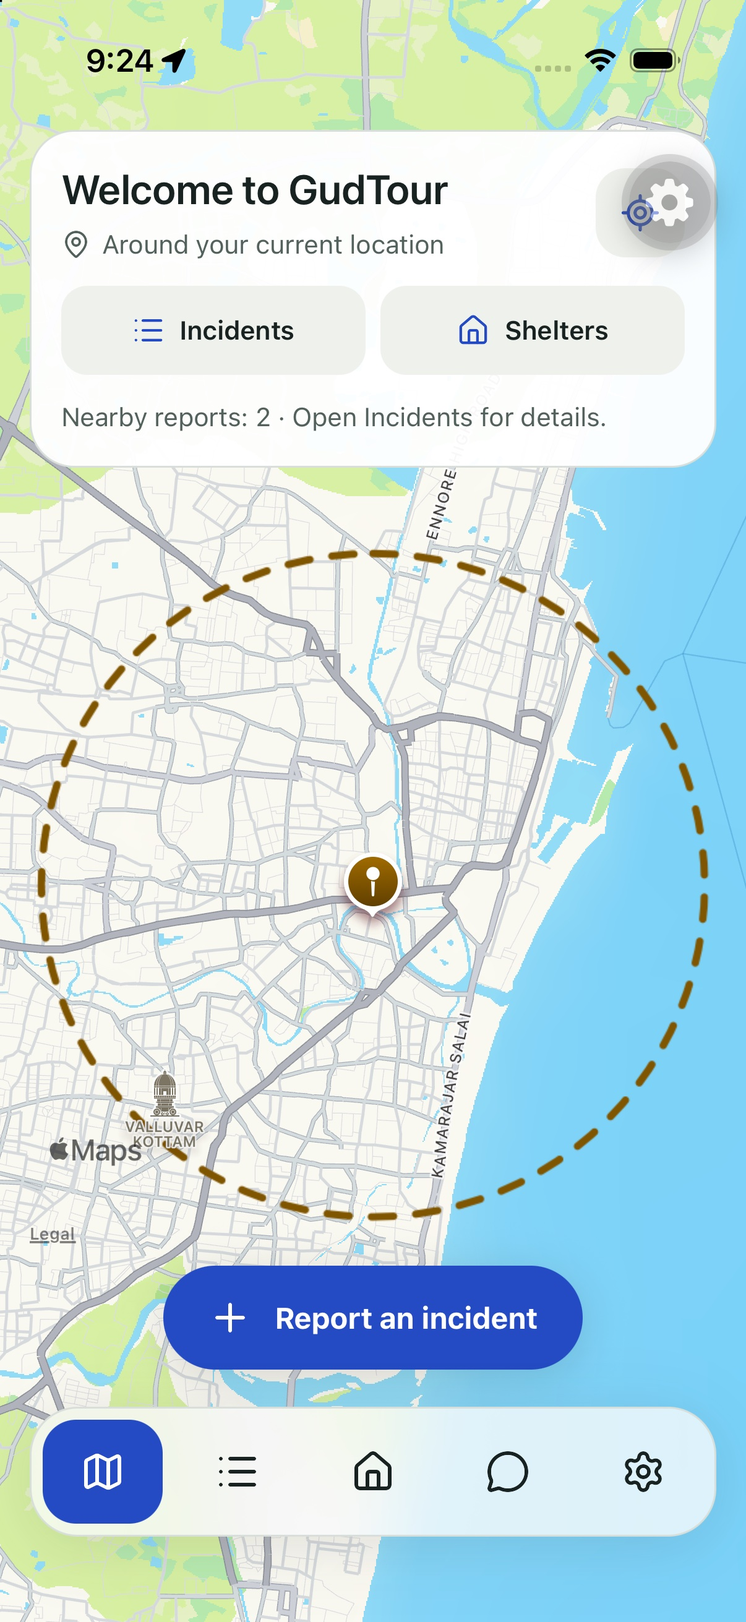
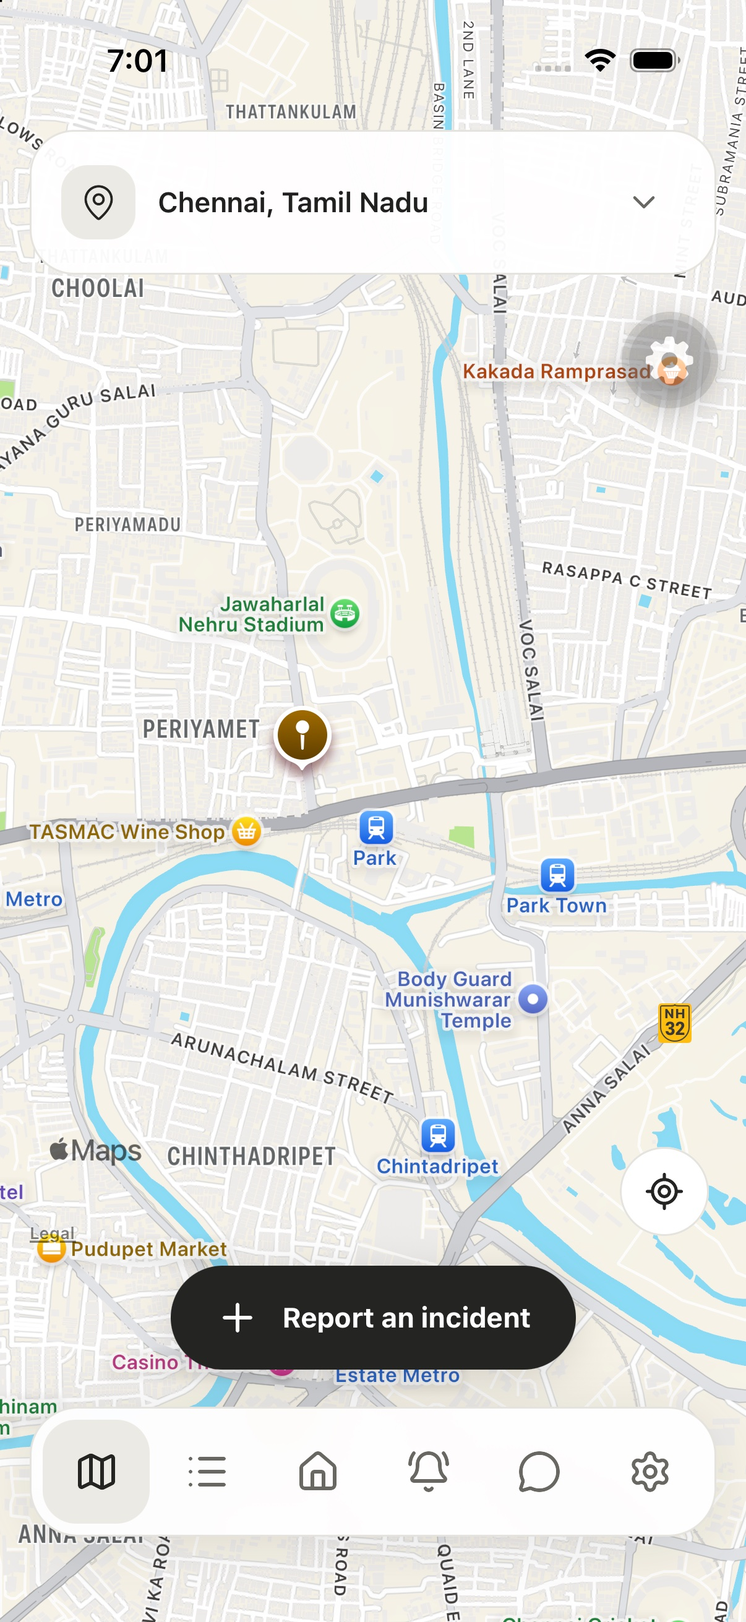
Refresh landing page with updated GudTour branding

diff --git a/web/styles.css b/web/styles.css
@@ -1,195 +1,12 @@
-/* App palette: src/theme/tokens.ts. Web layout is intentionally independent of Expo. */
-:root {
-  color-scheme: light;
-  --background: #F6F7F4;
-  --surface: #FFFFFF;
-  --text: #182321;
-  --secondary: #53615C;
-  --border: #D8DFDA;
-  --accent: #244BC4;
-  --selection: #E8EDFC;
-  --muted: #EEF1EC;
-  --radius: 22px;
-  font-family: -apple-system, BlinkMacSystemFont, "Segoe UI", Helvetica, Arial, sans-serif;
-  font-synthesis: none;
-  -webkit-font-smoothing: antialiased;
-}
-* { box-sizing: border-box; }
-html { scroll-padding-top: 24px; }
-body { margin: 0; background: var(--background); color: var(--text); }
-a { color: inherit; text-decoration: none; touch-action: manipulation; -webkit-tap-highlight-color: #244bc420; }
-svg { display: block; }
-::selection { background: var(--selection); color: var(--accent); }
-:focus-visible { outline: 3px solid var(--accent); outline-offset: 6px; border-radius: 6px; }
-.skip-link { position: absolute; top: 12px; left: 12px; z-index: 5; padding: 14px; background: var(--surface); transform: translateY(-200%); }
-.skip-link:focus { transform: translateY(0); }
-.icon-library { position: absolute; width: 0; height: 0; overflow: hidden; }
-.line-icon { width: 24px; height: 24px; fill: none; stroke: currentColor; stroke-width: 1.7; stroke-linecap: round; stroke-linejoin: round; flex-shrink: 0; }
-.page-shell { max-width: 1504px; margin: 0 auto; padding: 0 max(48px, env(safe-area-inset-right)) 0 max(48px, env(safe-area-inset-left)); }
-.header { height: 112px; display: flex; align-items: center; justify-content: space-between; gap: 24px; }
-.brand { display: inline-flex; align-items: center; gap: 10px; font-size: 28px; font-weight: 650; letter-spacing: -1.3px; }
-.brand-mark { display: grid; place-items: center; height: 38px; width: 38px; border-radius: 12px; background: var(--accent); color: white; }
-.brand-mark svg { width: 26px; height: 26px; }
-.brand-period { margin-left: -9px; color: var(--accent); }
-.header-right { display: flex; align-items: center; gap: 32px; }
-.edition { color: var(--secondary); font-size: 13px; }
-.header-cta { display: flex; align-items: center; gap: 22px; padding: 14px 20px; border: 1px solid var(--border); border-radius: 100px; font-size: 13px; font-weight: 600; transition: background 150ms, border-color 150ms; }
-.header-cta:hover { background: var(--surface); border-color: var(--secondary); }
-.header-cta .line-icon { width: 17px; height: 17px; }
-.hero { display: grid; grid-template-columns: 1.06fr 1fr; gap: 28px; min-height: 770px; align-items: center; }
-.hero-copy { padding: 36px 0 78px; position: relative; z-index: 1; }
-.eyebrow { font-size: 13px; color: var(--secondary); display: flex; align-items: center; gap: 10px; margin: 0 0 32px; }
-.tiny-compass { width: 25px; height: 25px; display: grid; place-items: center; border: 1px solid var(--border); border-radius: 50%; color: var(--accent); font-size: 17px; }
-h1 { font-size: clamp(58px, 5.7vw, 84px); line-height: 1.07; letter-spacing: -.066em; font-weight: 550; margin: 0 0 34px; text-wrap: balance; }
-.word-home { color: var(--accent); display: inline-block; position: relative; white-space: nowrap; }
-.word-home svg { position: absolute; bottom: -10px; left: 0; width: 100%; height: 15px; fill: none; stroke: var(--accent); stroke-width: 2; opacity: .5; }
-.intro { color: var(--secondary); font-size: 17px; line-height: 1.8; max-width: 465px; margin: 0 0 34px; text-wrap: pretty; }
-.intro strong { color: var(--text); font-weight: 600; }
-.download-block { scroll-margin-top: 28px; }
-.download-actions { display: flex; flex-wrap: wrap; gap: 12px; }
-.download { display: flex; align-items: center; gap: 12px; padding: 15px 17px; border: 1px solid transparent; border-radius: 17px; min-height: 72px; transition: transform 150ms, background 150ms, border-color 150ms; }
-.download-primary { background: var(--text); color: var(--surface); }
-.download-secondary { background: var(--surface); border-color: var(--border); }
-.download[aria-disabled="true"] { cursor: default; }
-.download[href]:hover { transform: translateY(-2px); }
-.download-primary[href]:hover { background: var(--accent); }
-.download-secondary[href]:hover { border-color: var(--accent); background: var(--selection); }
-.download[href]:active { transform: translateY(0); }
-.download-overline { display: block; font-size: 10px; letter-spacing: .02em; line-height: 1.7; }
-.download-title { display: block; font-size: 13px; font-weight: 600; line-height: 1.6; white-space: nowrap; }
-.platform-icon { width: 25px; height: 25px; flex-shrink: 0; fill: none; stroke: currentColor; stroke-width: 1.5; stroke-linecap: round; stroke-linejoin: round; }
-.download-arrow { width: 17px; height: 17px; margin-left: 2px; }
-.download[aria-disabled="true"] .download-arrow { opacity: .35; }
-.release-note { margin: 14px 0 0; color: var(--secondary); font-size: 12px; line-height: 1.7; max-width: 440px; }
-.language-note { display: flex; gap: 16px; align-items: center; margin-top: 40px; }
-.language-dots { display: flex; padding-left: 0; }
-.language-dots span { display: grid; place-items: center; height: 33px; width: 33px; border-radius: 50%; background: var(--surface); border: 2px solid var(--background); font-size: 12px; color: var(--secondary); }
-.language-dots span + span { margin-left: -9px; }
-.language-dots span:last-child { background: var(--selection); color: var(--accent); }
-.language-note p { margin: 0; font-size: 12px; line-height: 1.8; color: var(--secondary); }
-.language-note strong { color: var(--text); font-weight: 600; }
-.language-note p > span { font-size: 10px; }
-.product-visual { position: relative; isolation: isolate; min-width: 0; height: 750px; display: flex; align-items: center; justify-content: center; margin: 0; }
-.orbit { position: absolute; border-radius: 50%; z-index: -1; pointer-events: none; }
-.orbit-outer { width: 590px; height: 590px; max-width: 108%; border: 1px solid var(--border); }
-.orbit-inner { width: 455px; height: 455px; max-width: 85%; border: 1px dashed #bfcbbf; background: #eef1ec80; }
-.orbit-pin { position: absolute; z-index: -1; display: grid; place-items: center; width: 42px; height: 42px; background: var(--surface); color: var(--accent); border: 1px solid var(--border); border-radius: 50%; }
-.orbit-pin-one { top: 220px; left: 4%; }
-.orbit-pin-two { bottom: 168px; right: 3%; }
-.orbit-pin .line-icon { width: 19px; height: 19px; }
-.visual-label { position: absolute; top: 11px; left: 50%; transform: translateX(-50%); white-space: nowrap; color: var(--secondary); font-size: 11px; display: flex; align-items: center; gap: 8px; }
-.label-dot { height: 5px; width: 5px; background: var(--accent); border-radius: 50%; }
-.phone { width: 288px; position: relative; padding: 6px; background: #34403d; border: 1px solid #53615c; border-radius: 46px; transform: rotate(-5deg); box-shadow: 0 0 0 2px #bcc3be, 0 2px 0 3px white, 12px 26px 38px -18px #18232142, 0 60px 60px -42px #18232140; }
-.phone-screen { border-radius: 39px; overflow: hidden; position: relative; background: var(--muted); }
-.phone-screen img { display: block; width: 100%; height: auto; }
-.dynamic-island { background: #182321; position: absolute; top: 9px; left: 50%; transform: translateX(-50%); width: 78px; height: 22px; border-radius: 18px; }
-.phone-button { position: absolute; width: 3px; background: #6b7570; left: -5px; border-radius: 2px; }
-.phone-button-one { top: 100px; height: 24px; }
-.phone-button-two { top: 137px; height: 44px; }
-.floating-note { position: absolute; left: 0; bottom: 155px; display: flex; align-items: center; gap: 13px; padding: 17px 18px; border: 1px solid #ffffff; background: #ffffffed; border-radius: 19px; box-shadow: 0 12px 30px -15px #18232130; font-size: 13px; line-height: 1.7; transform: rotate(2deg); }
-.note-icon { width: 39px; height: 39px; display: grid; place-items: center; border-radius: 12px; background: var(--selection); color: var(--accent); }
-.note-icon svg { width: 19px; height: 19px; }
-.floating-note strong { font-weight: 600; }
-.note-arrow { margin-left: 8px; color: var(--secondary); }
-figcaption { position: absolute; bottom: 36px; left: 0; right: 0; text-align: center; font-size: 10px; color: var(--secondary); }
-figcaption span { margin: 0 5px; }
-.essentials { display: grid; grid-template-columns: repeat(3, 1fr); border-top: 1px solid var(--border); border-bottom: 1px solid var(--border); padding: 32px 0; gap: 34px; }
-.essentials article { display: flex; align-items: flex-start; gap: 16px; min-width: 0; }
-.essential-icon { color: var(--accent); padding-top: 3px; }
-.essentials h2 { font-weight: 600; font-size: 14px; letter-spacing: -.02em; margin: 0 0 9px; text-wrap: balance; }
-.essentials p { color: var(--secondary); font-size: 12px; line-height: 1.7; margin: 0; max-width: 240px; text-wrap: pretty; }
-.essential-number { font-size: 10px; color: var(--secondary); margin-left: auto; font-variant-numeric: tabular-nums; }
-.footer { display: flex; justify-content: space-between; align-items: center; padding: 30px 0 max(32px, env(safe-area-inset-bottom)); gap: 24px; font-size: 11px; color: var(--secondary); }
-.footer p { margin: 0; line-height: 1.8; }
-.footer p:first-child { white-space: nowrap; }
-.footer p:first-child > span:first-child { color: var(--text); font-weight: 650; }
-.footer-slash { margin: 0 10px; color: #73817a; }
-.footer-fine { font-size: 10px; }
-.footer-location { white-space: nowrap; }
-.footer-location > span { margin-right: 5px; color: var(--accent); }
-@media (min-width: 1550px) { .hero { min-height: 830px; } }
-@media (max-width: 1100px) {
-  .page-shell { padding: 0 32px; }
-  .hero { gap: 10px; min-height: 710px; }
-  h1 { font-size: 60px; }
-  .hero-copy { padding-bottom: 40px; }
-  .product-visual { height: 700px; }
-  .phone { width: 258px; }
-  .floating-note { left: -12px; bottom: 130px; padding: 12px; font-size: 11px; }
-  .orbit-outer { width: 440px; height: 440px; }
-  .orbit-inner { width: 340px; height: 340px; }
-  .essentials { gap: 20px; }
-  .footer { flex-wrap: wrap; }
-  .footer-fine { order: 3; flex-basis: 100%; }
-}
-@media (max-width: 820px) {
-  .header { height: 90px; }
-  .edition { display: none; }
-  .hero { grid-template-columns: 1fr; gap: 0; }
-  .hero-copy { text-align: center; padding: 40px 0 12px; }
-  .eyebrow, .download-actions, .language-note { justify-content: center; }
-  .eyebrow { margin-bottom: 28px; }
-  h1 { font-size: clamp(48px, 8.7vw, 70px); }
-  .intro { margin: 0 auto 28px; max-width: 460px; }
-  .release-note { margin-left: auto; margin-right: auto; }
-  .language-note { margin-top: 25px; text-align: left; }
-  .product-visual { height: 750px; width: 100%; max-width: 550px; margin: 12px auto 0; }
-  .phone { width: 288px; }
-  .visual-label { top: 25px; }
-  .floating-note { left: 10px; bottom: 158px; font-size: 13px; padding: 17px; }
-  .orbit-outer { width: 500px; height: 500px; }
-  .orbit-inner { width: 400px; height: 400px; }
-  .essentials { grid-template-columns: 1fr; gap: 28px; padding: 28px 0; }
-  .essentials p { max-width: none; }
-  .essentials h2 { font-size: 15px; }
-  .essentials article { gap: 20px; }
-}
-@media (max-width: 480px) {
-  .page-shell { padding: 0 max(22px, env(safe-area-inset-left)) 0 max(22px, env(safe-area-inset-right)); }
-  .header { height: 82px; }
-  .brand { font-size: 25px; }
-  .brand-mark { width: 32px; height: 32px; border-radius: 10px; }
-  .header-cta { padding: 11px 14px; gap: 12px; font-size: 12px; }
-  .hero-copy { padding-top: 30px; }
-  .eyebrow { font-size: 10px; gap: 8px; }
-  .tiny-compass { width: 21px; height: 21px; font-size: 14px; }
-  h1 { font-size: clamp(38px, 10.2vw, 48px); margin-bottom: 30px; }
-  .intro { font-size: 15px; line-height: 1.8; }
-  .download-actions { gap: 10px; }
-  .download { flex: 1 1 260px; max-width: 330px; text-align: left; padding: 14px 20px; }
-  .download-title { font-size: 14px; }
-  .download-overline { font-size: 11px; }
-  .download-arrow { margin-left: auto; }
-  .language-note { gap: 10px; }
-  .language-note p > span { font-size: 9px; }
-  .language-dots span { width: 28px; height: 28px; }
-  .product-visual { height: 700px; margin-top: 5px; }
-  .phone { width: 265px; border-radius: 43px; }
-  .phone-screen { border-radius: 36px; }
-  .visual-label { top: 24px; font-size: 10px; }
-  .orbit-outer { width: 330px; height: 330px; }
-  .orbit-inner { width: 265px; height: 265px; }
-  .orbit-pin-one { left: 0; top: 220px; }
-  .orbit-pin-two { right: 0; bottom: 150px; }
-  .floating-note { left: -4px; bottom: 125px; font-size: 11px; padding: 12px; gap: 9px; }
-  .note-icon { width: 31px; height: 31px; }
-  figcaption { font-size: 9px; bottom: 24px; }
-  .footer { padding-top: 24px; font-size: 10px; gap: 15px; }
-  .footer-slash { margin: 0 5px; }
-}
-@media (max-width: 350px) {
-  .page-shell { padding-left: 18px; padding-right: 18px; }
-  h1 { font-size: 36px; }
-  .hero-copy .eyebrow { font-size: 9px; }
-  .language-dots { display: none; }
-  .phone { width: 240px; }
-  .product-visual { height: 650px; }
-  .visual-label { font-size: 9px; }
-  .footer-location { display: none; }
-}
-@media (prefers-reduced-motion: reduce) {
-  *, *::before, *::after { transition: none !important; scroll-behavior: auto !important; }
-}
-@media (prefers-contrast: more) {
-  .orbit-inner, .orbit-outer, .header-cta, .download-secondary { border-color: var(--secondary); }
-}
+/* Matches GudTour's warm neutrals, black controls and restrained pastel surfaces. */
+:root{color-scheme:light;--background:#F7F6F3;--surface:#fff;--text:#20201E;--secondary:#686761;--border:#E5E3DD;--accent:#242421;--selection:#ECEAE4;--muted:#F0EEE8;--sky:#E1EFF8;--peach:#FBE4D6;--sand:#F4EACB;font-family:-apple-system,BlinkMacSystemFont,"Segoe UI",Helvetica,Arial,sans-serif;font-synthesis:none;-webkit-font-smoothing:antialiased}
+*{box-sizing:border-box}body{margin:0;background:var(--background);color:var(--text)}a{color:inherit;text-decoration:none;touch-action:manipulation;-webkit-tap-highlight-color:#20201e15}svg{display:block}::selection{background:var(--sand)}:focus-visible{outline:3px solid var(--text);outline-offset:5px;border-radius:6px}.skip-link{position:absolute;top:12px;left:12px;z-index:5;padding:14px;background:white;transform:translateY(-200%)}.skip-link:focus{transform:none}.icon-library{position:absolute;width:0;height:0;overflow:hidden}.line-icon{width:24px;height:24px;fill:none;stroke:currentColor;stroke-width:1.7;stroke-linecap:round;stroke-linejoin:round;flex-shrink:0}
+.page-shell{max-width:1320px;margin:auto;padding:0 max(40px,env(safe-area-inset-left)) 0 max(40px,env(safe-area-inset-right))}.header{height:108px;display:flex;align-items:center;justify-content:space-between;gap:20px;border-bottom:1px solid var(--border)}.brand{display:inline-flex;align-items:center;gap:8px;font-size:27px;font-weight:750;letter-spacing:-1.2px}.brand-mark{display:block;width:44px;height:44px}.brand-mark img{display:block;width:100%;height:100%;border-radius:12px}.brand-period{display:none}.header-right{display:flex;align-items:center;gap:28px}.edition{font-size:12px;color:var(--secondary)}.header-cta{display:flex;align-items:center;gap:22px;background:var(--text);color:white;padding:14px 20px;border-radius:14px;font-size:13px;font-weight:600;min-height:48px}.header-cta:hover{background:#44443e}.header-cta svg{width:18px;height:18px}
+.hero{display:grid;grid-template-columns:1fr 1fr;align-items:center;gap:48px;padding:42px 0 48px}.hero-copy{padding:24px 0}.eyebrow{display:flex;align-items:center;gap:10px;font-size:10px;font-weight:650;letter-spacing:1.5px;margin:0 0 28px;color:var(--secondary)}.tiny-compass{display:grid;place-items:center;background:var(--sand);width:30px;height:30px;border-radius:10px;font-size:19px;color:var(--text)}h1{font-size:clamp(48px,5.3vw,74px);line-height:1.04;letter-spacing:-.065em;font-weight:750;margin:0 0 26px;text-wrap:balance}.word-home{color:var(--secondary)}.intro{font-size:16px;line-height:1.75;color:var(--secondary);max-width:420px;margin:0 0 30px;text-wrap:pretty}.intro strong{font-weight:600;color:var(--text)}.download-block{scroll-margin-top:24px}.download-actions{display:flex;flex-wrap:wrap;gap:10px}.download{display:flex;align-items:center;gap:10px;min-height:70px;padding:13px 16px;border:1px solid var(--border);border-radius:16px;transition:transform 150ms}.download-primary{background:var(--text);color:white;border-color:var(--text)}.download-secondary{background:white}.download[href]:hover{transform:translateY(-2px)}.download[href]:active{transform:none}.download[aria-disabled=true]{cursor:default}.download-overline{display:block;font-size:10px;line-height:1.7}.download-title{display:block;font-size:13px;font-weight:650;line-height:1.6}.platform-icon{width:24px;height:24px;fill:none;stroke:currentColor;stroke-width:1.5;stroke-linecap:round;stroke-linejoin:round;flex-shrink:0}.download-arrow{width:16px;height:16px}.download[aria-disabled=true] .download-arrow{display:none}.release-note{font-size:11px;line-height:1.7;color:var(--secondary);max-width:400px;margin:12px 0 0}.language-note{display:flex;gap:12px;align-items:center;margin-top:30px}.language-dots{display:flex;flex-shrink:0}.language-dots span{display:grid;place-items:center;width:34px;height:34px;border:2px solid var(--background);border-radius:50%;background:var(--sky);font-size:13px}.language-dots span+span{margin-left:-8px;background:var(--peach)}.language-dots span:last-child{background:var(--sand)}.language-note p{font-size:12px;line-height:1.8;margin:0;color:var(--secondary)}.language-note strong{color:var(--text)}.language-note p>span{font-size:10px}
+.product-visual{position:relative;isolation:isolate;display:flex;align-items:center;justify-content:center;min-width:0;height:660px;margin:0;background:var(--sky);border-radius:36px;overflow:hidden}.orbit{position:absolute;z-index:-1;border-radius:50%;pointer-events:none}.orbit-outer{width:520px;height:520px;border:1px solid #bccfda}.orbit-inner{width:390px;height:390px;border:1px solid #bccfda}.orbit-pin{position:absolute;display:grid;place-items:center;width:46px;height:46px;border-radius:16px;background:var(--sand);z-index:-1;transform:rotate(-12deg)}.orbit-pin-one{left:24px;top:160px}.orbit-pin-two{right:24px;bottom:160px;background:var(--peach);transform:rotate(12deg)}.visual-label{position:absolute;top:26px;font-size:9px;letter-spacing:1.1px;display:flex;align-items:center;gap:7px;color:#4d626d}.label-dot{width:5px;height:5px;background:currentColor;border-radius:50%}.phone{width:248px;padding:5px;background:#242421;border:1px solid #686761;border-radius:39px;transform:rotate(-4deg);box-shadow:0 2px 0 2px #fff,12px 22px 32px -16px #20201e55}.phone-screen{border-radius:33px;overflow:hidden;position:relative;background:var(--muted)}.phone-screen img{display:block;width:100%;height:auto}.dynamic-island{position:absolute;top:8px;left:50%;transform:translateX(-50%);width:68px;height:19px;background:#181818;border-radius:18px}.phone-button{position:absolute;left:-4px;width:2px;background:#686761;border-radius:2px}.phone-button-one{top:90px;height:22px}.phone-button-two{top:125px;height:38px}.floating-note{position:absolute;bottom:88px;left:22px;display:flex;align-items:center;gap:12px;padding:14px 18px;background:var(--surface);border-radius:18px;box-shadow:0 6px 20px #20201e0d;font-size:12px;line-height:1.6;transform:rotate(3deg)}.note-icon{display:grid;place-items:center;width:36px;height:36px;border-radius:12px;background:var(--peach)}.note-icon svg{width:20px;height:20px}.note-arrow{margin-left:12px}figcaption{position:absolute;bottom:22px;left:12px;right:12px;text-align:center;font-size:10px;color:#4d626d}figcaption span{margin:0 4px}
+.essentials{display:grid;grid-template-columns:repeat(3,1fr);gap:14px;padding:0 0 42px}.essentials article{position:relative;display:flex;flex-direction:column;align-items:flex-start;gap:22px;background:var(--surface);padding:26px;border-radius:24px;min-width:0}.essential-icon{display:grid;place-items:center;width:46px;height:46px;border-radius:15px;background:var(--sky)}.essentials article:nth-child(2) .essential-icon{background:var(--peach)}.essentials article:nth-child(3) .essential-icon{background:var(--sand)}.essentials h2{font-size:18px;letter-spacing:-.5px;margin:0 0 9px;font-weight:650;text-wrap:balance}.essentials p{font-size:13px;line-height:1.7;margin:0;max-width:280px;color:var(--secondary)}.essential-number{position:absolute;top:30px;right:26px;font-size:11px;color:var(--secondary);font-variant-numeric:tabular-nums}.footer{display:flex;align-items:center;justify-content:space-between;gap:24px;border-top:1px solid var(--border);padding:26px 0 max(26px,env(safe-area-inset-bottom));font-size:11px;color:var(--secondary)}.footer p{margin:0;line-height:1.8}.footer p:first-child>span:first-child{font-weight:700;color:var(--text)}.footer-slash{margin:0 7px}.footer-fine{font-size:10px}.footer-location{white-space:nowrap}
+@media(max-width:1000px){.page-shell{padding:0 28px}.hero{gap:24px}h1{font-size:54px}.product-visual{height:650px}.phone{width:230px}.download{padding:12px}.edition{display:none}.footer{flex-wrap:wrap}.footer-fine{order:3;flex-basis:100%}}
+@media(max-width:760px){.header{height:86px}.hero{grid-template-columns:1fr;padding-top:28px;gap:28px}.hero-copy{padding:8px 0 0}h1{font-size:clamp(48px,9vw,70px)}.intro{max-width:480px}.product-visual{height:650px}.phone{width:254px}.visual-label{font-size:9px}.essentials{grid-template-columns:1fr}.essentials article{flex-direction:row;padding:22px;gap:18px}.essential-icon{flex-shrink:0}.essential-number{display:none}.essentials p{max-width:none}.essentials h2{font-size:17px}.footer-location{margin-left:auto}}
+@media(max-width:400px){.page-shell{padding:0 max(18px,env(safe-area-inset-left)) 0 max(18px,env(safe-area-inset-right))}.brand{font-size:24px}.header-cta{padding:12px;gap:10px}h1{font-size:48px}.eyebrow{font-size:8px;letter-spacing:1px}.download-actions{flex-direction:column}.download{min-height:64px;padding:12px 18px}.download-arrow{margin-left:auto}.language-note p>span{font-size:9px}.product-visual{height:600px;border-radius:28px}.phone{width:232px}.floating-note{left:12px;bottom:68px}.visual-label{font-size:7px}.essentials article{padding:20px}.footer{gap:16px}.footer-location{margin-left:0}}
+@media(prefers-reduced-motion:reduce){*,*::before,*::after{transition:none!important;scroll-behavior:auto!important}}
+@media(prefers-contrast:more){:root{--secondary:#44443e;--border:#686761}}

diff --git a/web/index.html b/web/index.html
@@ -3,10 +3,10 @@
 <head>
   <meta charset="utf-8">
   <meta name="viewport" content="width=device-width, initial-scale=1, viewport-fit=cover">
-  <meta name="theme-color" content="#F6F7F4">
+  <meta name="theme-color" content="#F7F6F3">
   <meta name="description" content="Meet GudTour. An India-first travel companion designed for local hazard reports, alerts in your language, and shelter information.">
   <title>GudTour — Local alerts. Your language.</title>
-  <link rel="icon" href="./assets/mark.svg" type="image/svg+xml">
+  <link rel="icon" href="./assets/logo.png" type="image/png">
   <link rel="stylesheet" href="./styles.css">
   <script src="./downloads.js" defer></script>
   <script src="./main.js" defer></script>
@@ -28,7 +28,7 @@
   <div class="page-shell">
     <header class="header">
       <a class="brand" href="./" aria-label="GudTour home" translate="no">
-        <span class="brand-mark"><svg aria-hidden="true"><use href="#compass"/></svg></span>
+        <span class="brand-mark"><img src="./assets/logo.png" width="44" height="44" alt=""></span>
         GudTour<span class="brand-period">.</span>
       </a>
       <div class="header-right"><span class="edition">Made for your journey in India</span><a class="header-cta" href="#get-app">Get the app <svg class="line-icon" aria-hidden="true"><use href="#arrow"/></svg></a></div>
@@ -37,9 +37,9 @@
     <main id="main">
       <section class="hero" aria-labelledby="hero-title">
         <div class="hero-copy">
-          <p class="eyebrow"><span class="tiny-compass" aria-hidden="true">↗</span> A little local knowledge goes a long way.</p>
-          <h1 id="hero-title">New place.<br>Same <span class="word-home">peace of mind<svg viewBox="0 0 460 20" preserveAspectRatio="none" aria-hidden="true"><path d="M3 14C125 1 303 3 455 11"/></svg></span>.</h1>
-          <p class="intro">Meet <strong translate="no">GudTour</strong>. We’re building a travel companion that brings nearby hazard reports, local alerts and shelter information into one clear map. In your language.</p>
+          <p class="eyebrow"><span class="tiny-compass" aria-hidden="true">↗</span> YOUR LOCAL COMPANION, IN INDIA</p>
+          <h1 id="hero-title">Go somewhere<br>new. <span class="word-home">Stay<br>in the know.</span></h1>
+          <p class="intro">A clearer picture of what’s around you. Nearby hazard reports, local alerts and shelter information—together on <strong>one simple map.</strong></p>
 
           <div id="get-app" class="download-block">
             <div class="download-actions" aria-label="App downloads">
@@ -60,10 +60,10 @@
           <div class="orbit orbit-outer" aria-hidden="true"></div><div class="orbit orbit-inner" aria-hidden="true"></div>
           <span class="orbit-pin orbit-pin-one" aria-hidden="true"><svg class="line-icon"><use href="#pin"/></svg></span>
           <span class="orbit-pin orbit-pin-two" aria-hidden="true"><svg class="line-icon"><use href="#shelter"/></svg></span>
-          <div class="visual-label"><span class="label-dot" aria-hidden="true"></span> A familiar feeling. Wherever you are.</div>
+          <div class="visual-label"><span class="label-dot" aria-hidden="true"></span> THE WORLD AROUND YOU, A LITTLE CLEARER</div>
           <div class="phone">
             <div class="phone-button phone-button-one" aria-hidden="true"></div><div class="phone-button phone-button-two" aria-hidden="true"></div>
-            <div class="phone-screen"><img src="./assets/app-preview.jpg" width="920" height="2000" fetchpriority="high" alt="GudTour iOS development screen: a full-screen map with a nearby incident boundary, Report an incident action and floating navigation. The location and incident data are simulated."><div class="dynamic-island" aria-hidden="true"></div></div>
+            <div class="phone-screen"><img src="./assets/app-preview.jpg" width="920" height="2000" fetchpriority="high" alt="GudTour iOS development screen: a Chennai map with an incident pin, black Report an incident button and floating navigation. Development preview with simulated location."><div class="dynamic-island" aria-hidden="true"></div></div>
           </div>
           <div class="floating-note" aria-hidden="true"><span class="note-icon"><svg class="line-icon"><use href="#pin"/></svg></span><span>Around you.<br><strong>Not everywhere.</strong></span><span class="note-arrow">↗</span></div>
           <figcaption>Actual iOS development build <span>·</span> Simulated data</figcaption>

diff --git a/context.md b/context.md
@@ -532,6 +532,7 @@ Deployment verified: development basic-newt-690 ready14:52:42 IST; production jo
 - rc.6 build completed from5093dfa but predates this follow-up; do not publish it. Next APK rc.7 must contain these changes.
 
 ## 2026-10-10 — Monochrome mobile design pass
+- Landing refresh: redesigned `web/styles.css` and hero in `web/index.html` to match warm-white/charcoal app with sky/peach/sand accents, compact black controls and responsive feature panels. Added `web/assets/logo.png` from monochrome iOS icon and refreshed app-preview.jpg from real latest map screenshot. Download configuration preserved. Checked desktop/mobile rendered screenshots; browser verification passes 1440/768/390/320 widths, no overflow, both images loaded, axe clean, keyboard/reduced-motion/download URL checks. Typecheck/lint pass. Local source only, not deployed in this pass.
 - Latest user asks audit first (Android appearance poor), then explicitly adds three-way System/Light/Dark toggle. Added AppearancePreferenceProvider at root, persisted `gudtour.appearance` via existing preferenceStorage, uses RN Appearance app override; Settings compact segmented radiogroup with48px targets and six-language labels, save failure feedback, serialized writes. Existing useColorScheme consumers observe native override. Startup preference loading currently renders children (possible initial system-theme flash); physical Android switching/persistence/keyboard/map still need verification. Logout tests mock native preference boundary. Latest check308 tests/54files+lint/TypeScript passes; does not prove new control behavioral acceptance. Audit unfinished: latest map screenshot `tmp/ui-audit-latest.png` and Settings screenshot `tmp/ui-audit-settings-latest.png` captured; map read, Settings not yet read. User is dissatisfied: don't claim overall UI accepted/completed. Concurrent edits ongoing.
 - User requested completion then more color. Added light/dark sky/peach/sand/rose theme tokens; applied category tints to hazard artwork, onboarding luggage/map/compass, incident icons and Settings icons. No purple/green branding or dark header panels. Shared title26/32, compact footer/buttons48px, Field17px with Android font-padding removed. Current `npm run check` passes304/53 with lint/TypeScript; concurrent backend polling failure has been resolved outside this UI work. Full cross-platform visual acceptance is still outstanding; do not equate automated passes with completed visual acceptance.
 - Latest visual correction: user rejected black header backgrounds and requested compact spacing. Removed dark JourneyHeader panels; title26/32, gaps10/4. Screen padding16/gap12, Choice48px minheight/padding12, smaller incident/shelter cards and hazard tiles. Latest lint/TypeScript pass; full suite303/304 with concurrent `tests/sachetPolling.test.ts` RSS_INVALID failure (backend untouched by UI work). Do not report full green suite for this checkpoint or modify concurrent backend work to fix it.
